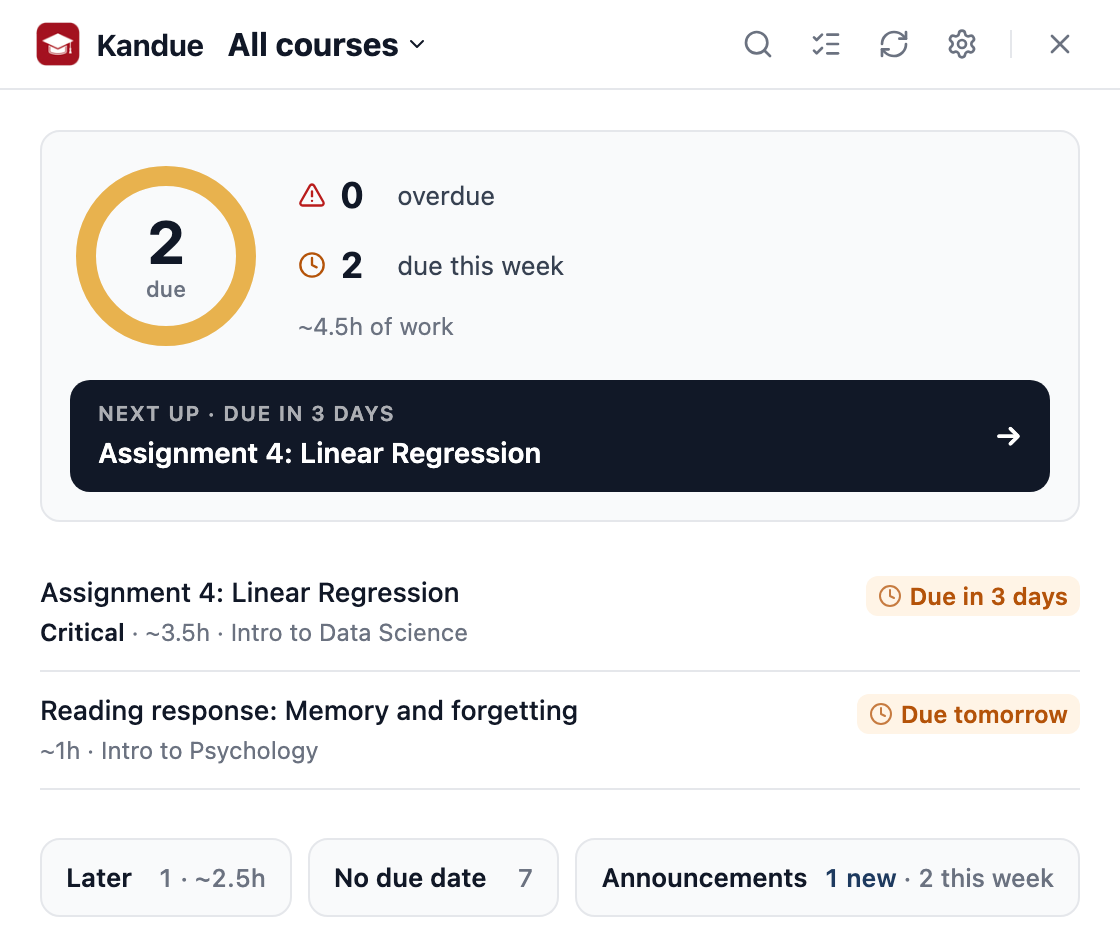
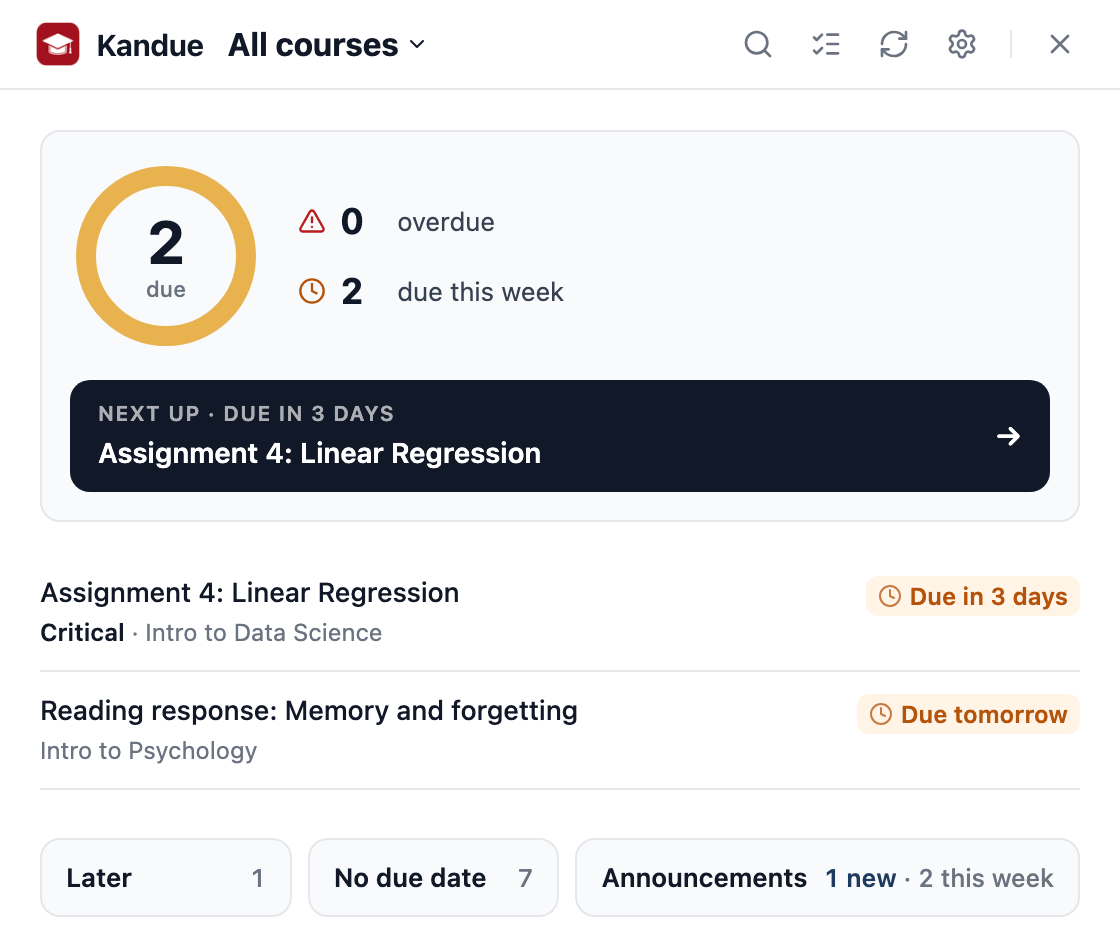
Site drops the students' hour estimates from its copy and screenshots

diff --git a/docs/index.html b/docs/index.html
@@ -350,7 +350,7 @@
                     <div class="feature">
                         <div class="badge"><svg viewBox="0 0 24 24" fill="none" stroke="currentColor" stroke-width="2"><path d="M21 11.5a8.38 8.38 0 0 1-.9 3.8 8.5 8.5 0 0 1-7.6 4.7 8.38 8.38 0 0 1-3.8-.9L3 21l1.9-5.7a8.38 8.38 0 0 1-.9-3.8 8.5 8.5 0 0 1 4.7-7.6 8.38 8.38 0 0 1 3.8-.9h.5a8.48 8.48 0 0 1 8 8v.5z"></path></svg></div>
                         <h4>Ranked priorities</h4>
-                        <p>Your week's work ordered by what matters first, each with a reason and an hour estimate. Computed in the panel with no waiting, and the estimates adjust as you report how long things really take.</p>
+                        <p>Your week's work ordered by what matters first, each with a reason. Computed in the panel with no waiting.</p>
                     </div>
                     <div class="feature">
                         <div class="badge"><svg viewBox="0 0 24 24" fill="none" stroke="currentColor" stroke-width="2"><rect x="3" y="4" width="18" height="18" rx="2"></rect><line x1="16" y1="2" x2="16" y2="6"></line><line x1="8" y1="2" x2="8" y2="6"></line><line x1="3" y1="10" x2="21" y2="10"></line></svg></div>
@@ -382,7 +382,7 @@
                 <div class="shot-feature">
                     <!-- ?v= is the edge cache key (see the brand mark): these files were
                          replaced in place, and Cloudflare holds them for four hours. -->
-                    <div class="shot-media"><img src="ss1.png?v=12" width="1120" height="940" alt="The Kandue panel, headed by an All courses switch and a search button: a ring of 2 due, 0 overdue and 2 due this week at about 4.5 hours of work, a Next up button naming Assignment 4: Linear Regression, due in 3 days, then that assignment marked Critical and a reading response, each ending in a chip saying when it is due, and buttons for Later, No due date and Announcements with 1 new" loading="lazy" decoding="async"></div>
+                    <div class="shot-media"><img src="ss1.png?v=13" width="1120" height="940" alt="The Kandue panel, headed by an All courses switch and a search button: a ring of 2 due, 0 overdue and 2 due this week, a Next up button naming Assignment 4: Linear Regression, due in 3 days, then that assignment marked Critical and a reading response, each ending in a chip saying when it is due, and buttons for Later, No due date and Announcements with 1 new" loading="lazy" decoding="async"></div>
                     <div class="shot-copy">
                         <h4>Everything due, in one place</h4>
                         <p>Overdue, due today and coming up, counted across every course, with this week's announcements above the list, each one carrying the colour of the course it is about.</p>
@@ -390,10 +390,10 @@
                 </div>
 
                 <div class="shot-feature">
-                    <div class="shot-media"><img src="ss-priorities.png?v=12" width="560" height="540" alt="The Kandue assignment queue: a ring of 3 due, 1 overdue and 2 due this week, a Next up button naming the lab that is 1 day late, then that lab under Overdue with a red 1 day late chip, and a midterm exam and a reading under This week with amber Due in 6 days and Due in 5 days chips" loading="lazy" decoding="async"></div>
+                    <div class="shot-media"><img src="ss-priorities.png?v=13" width="560" height="540" alt="The Kandue assignment queue: a ring of 3 due, 1 overdue and 2 due this week, a Next up button naming the lab that is 1 day late, then that lab under Overdue with a red 1 day late chip, and a midterm exam and a reading under This week with amber Due in 6 days and Due in 5 days chips" loading="lazy" decoding="async"></div>
                     <div class="shot-copy">
                         <h4>Know what to start</h4>
-                        <p>Your week ranked by what actually matters first, each task with an hour estimate and one line on why it's there. Tell it how long something really took and the estimates adjust to you.</p>
+                        <p>Your week ranked by what actually matters first, each task with one line on why it's there.</p>
                     </div>
                 </div>
 
